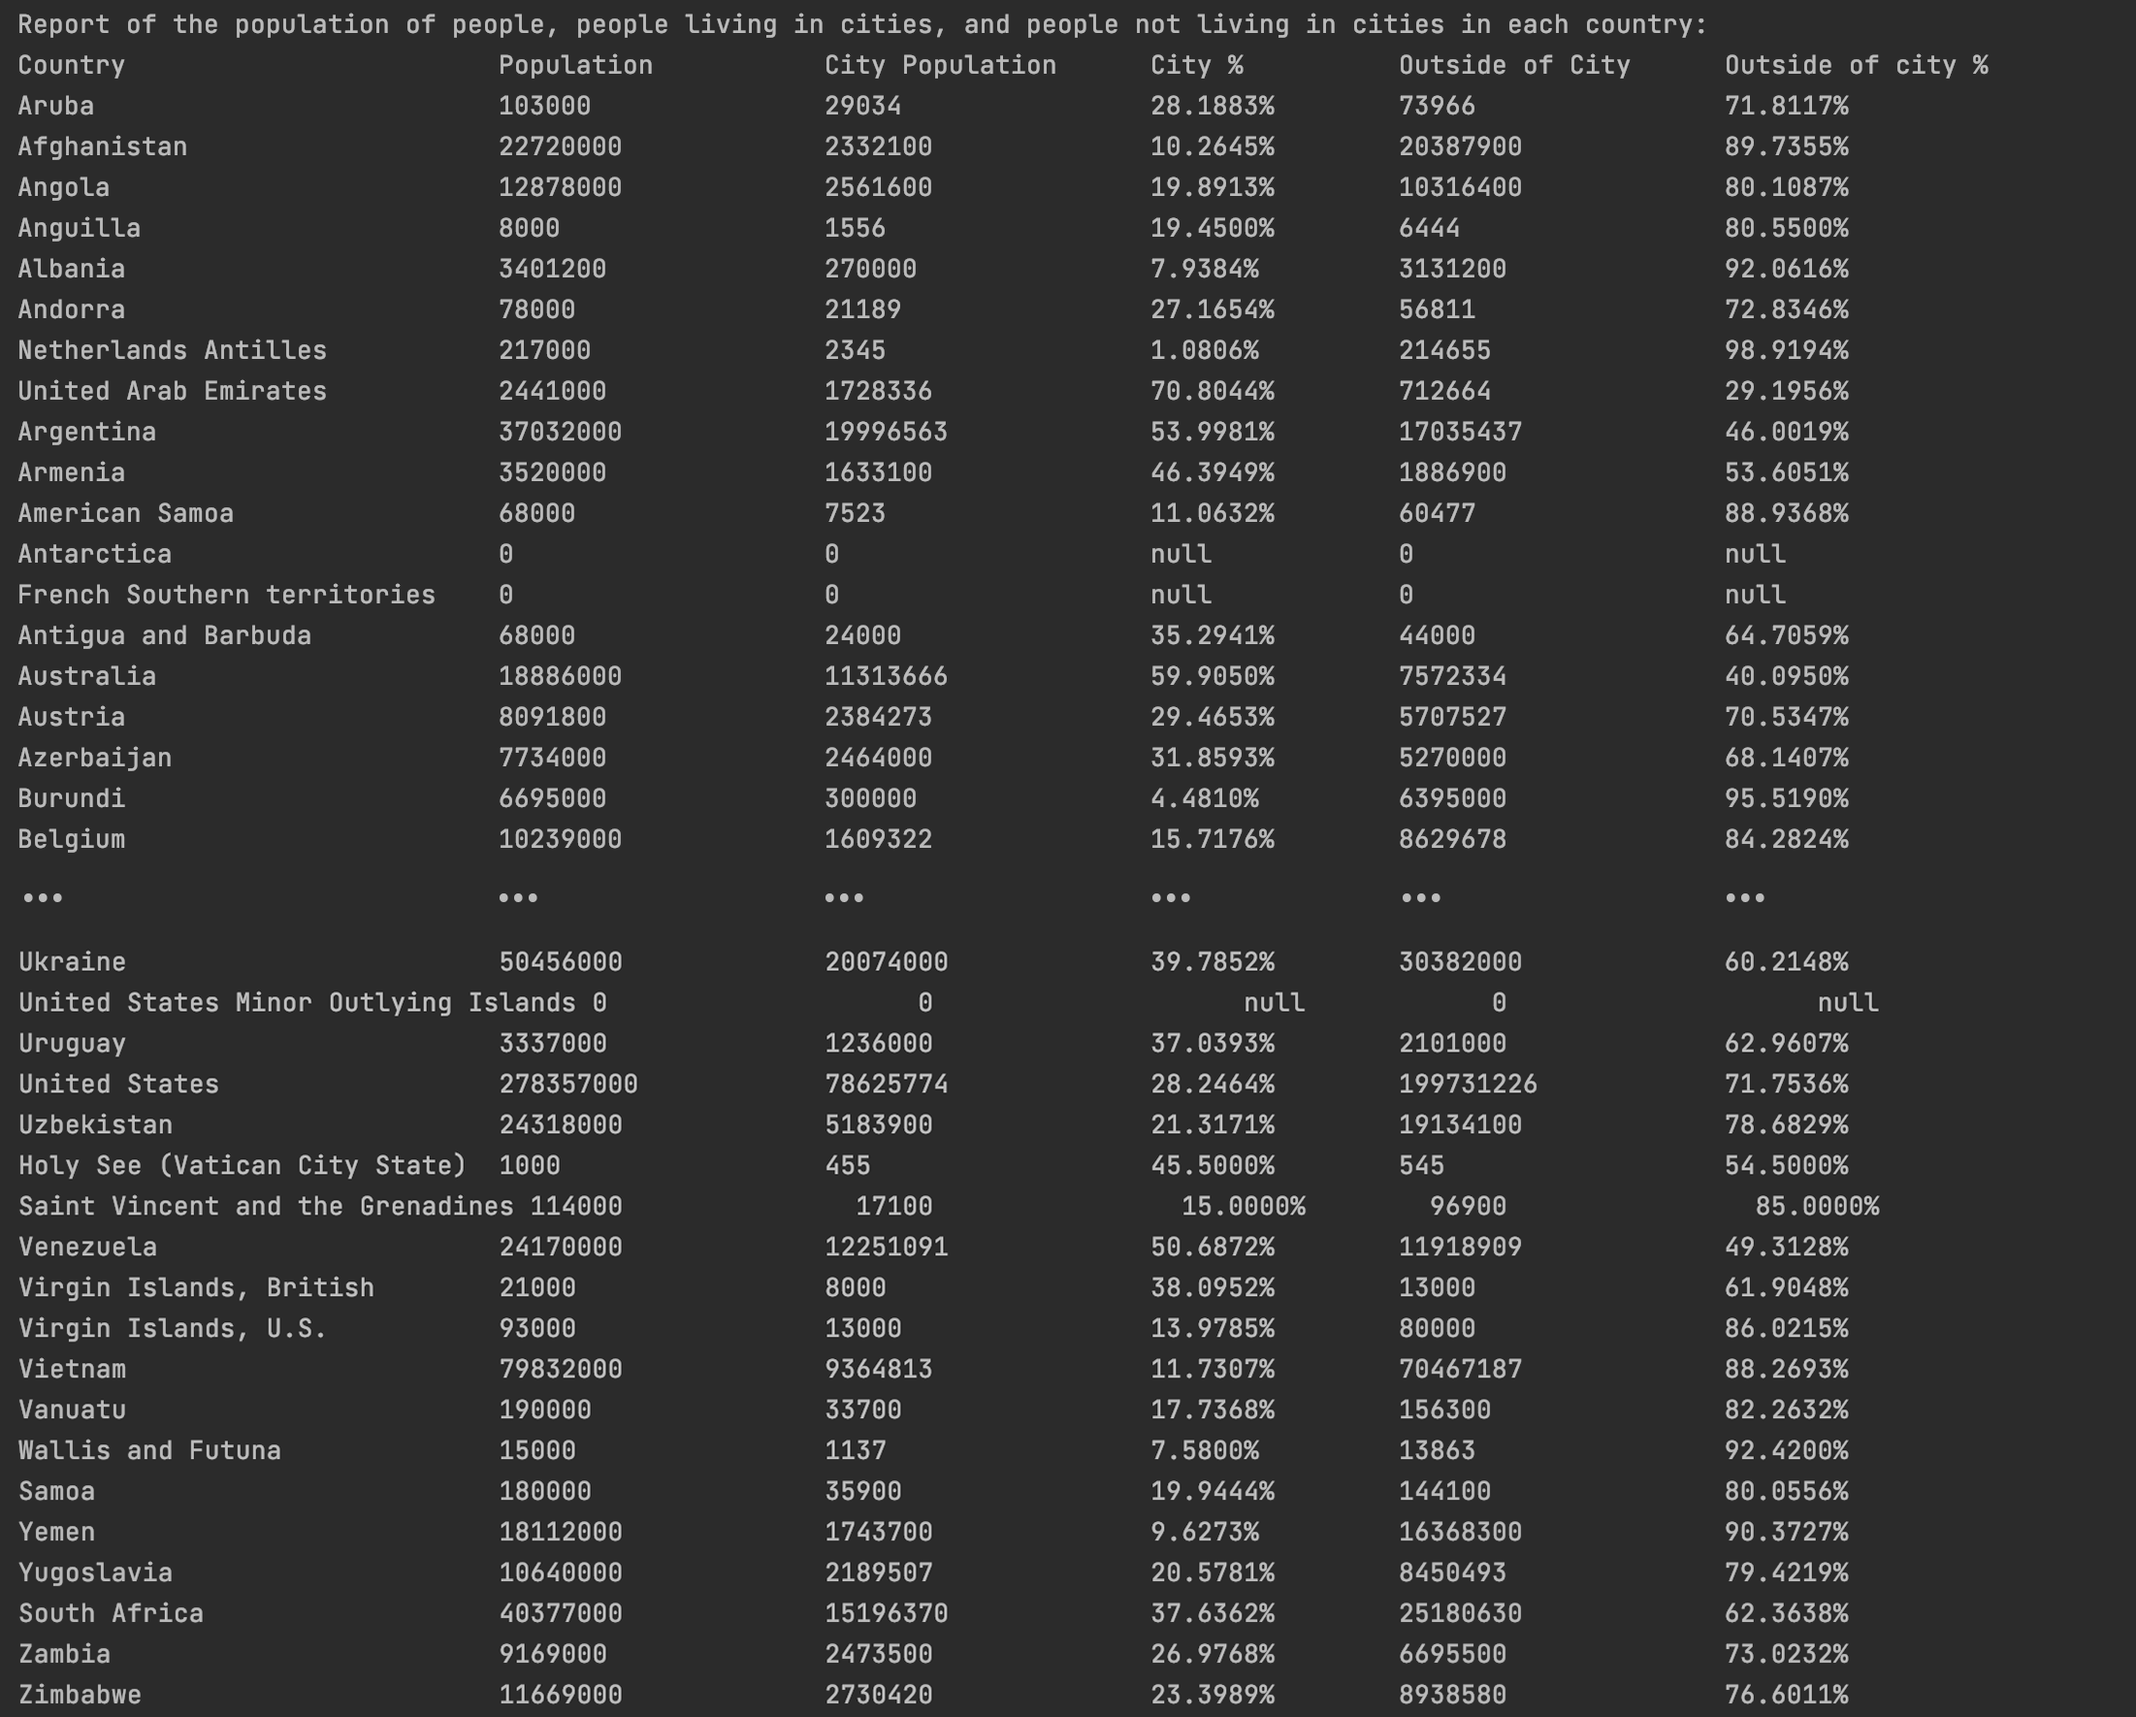
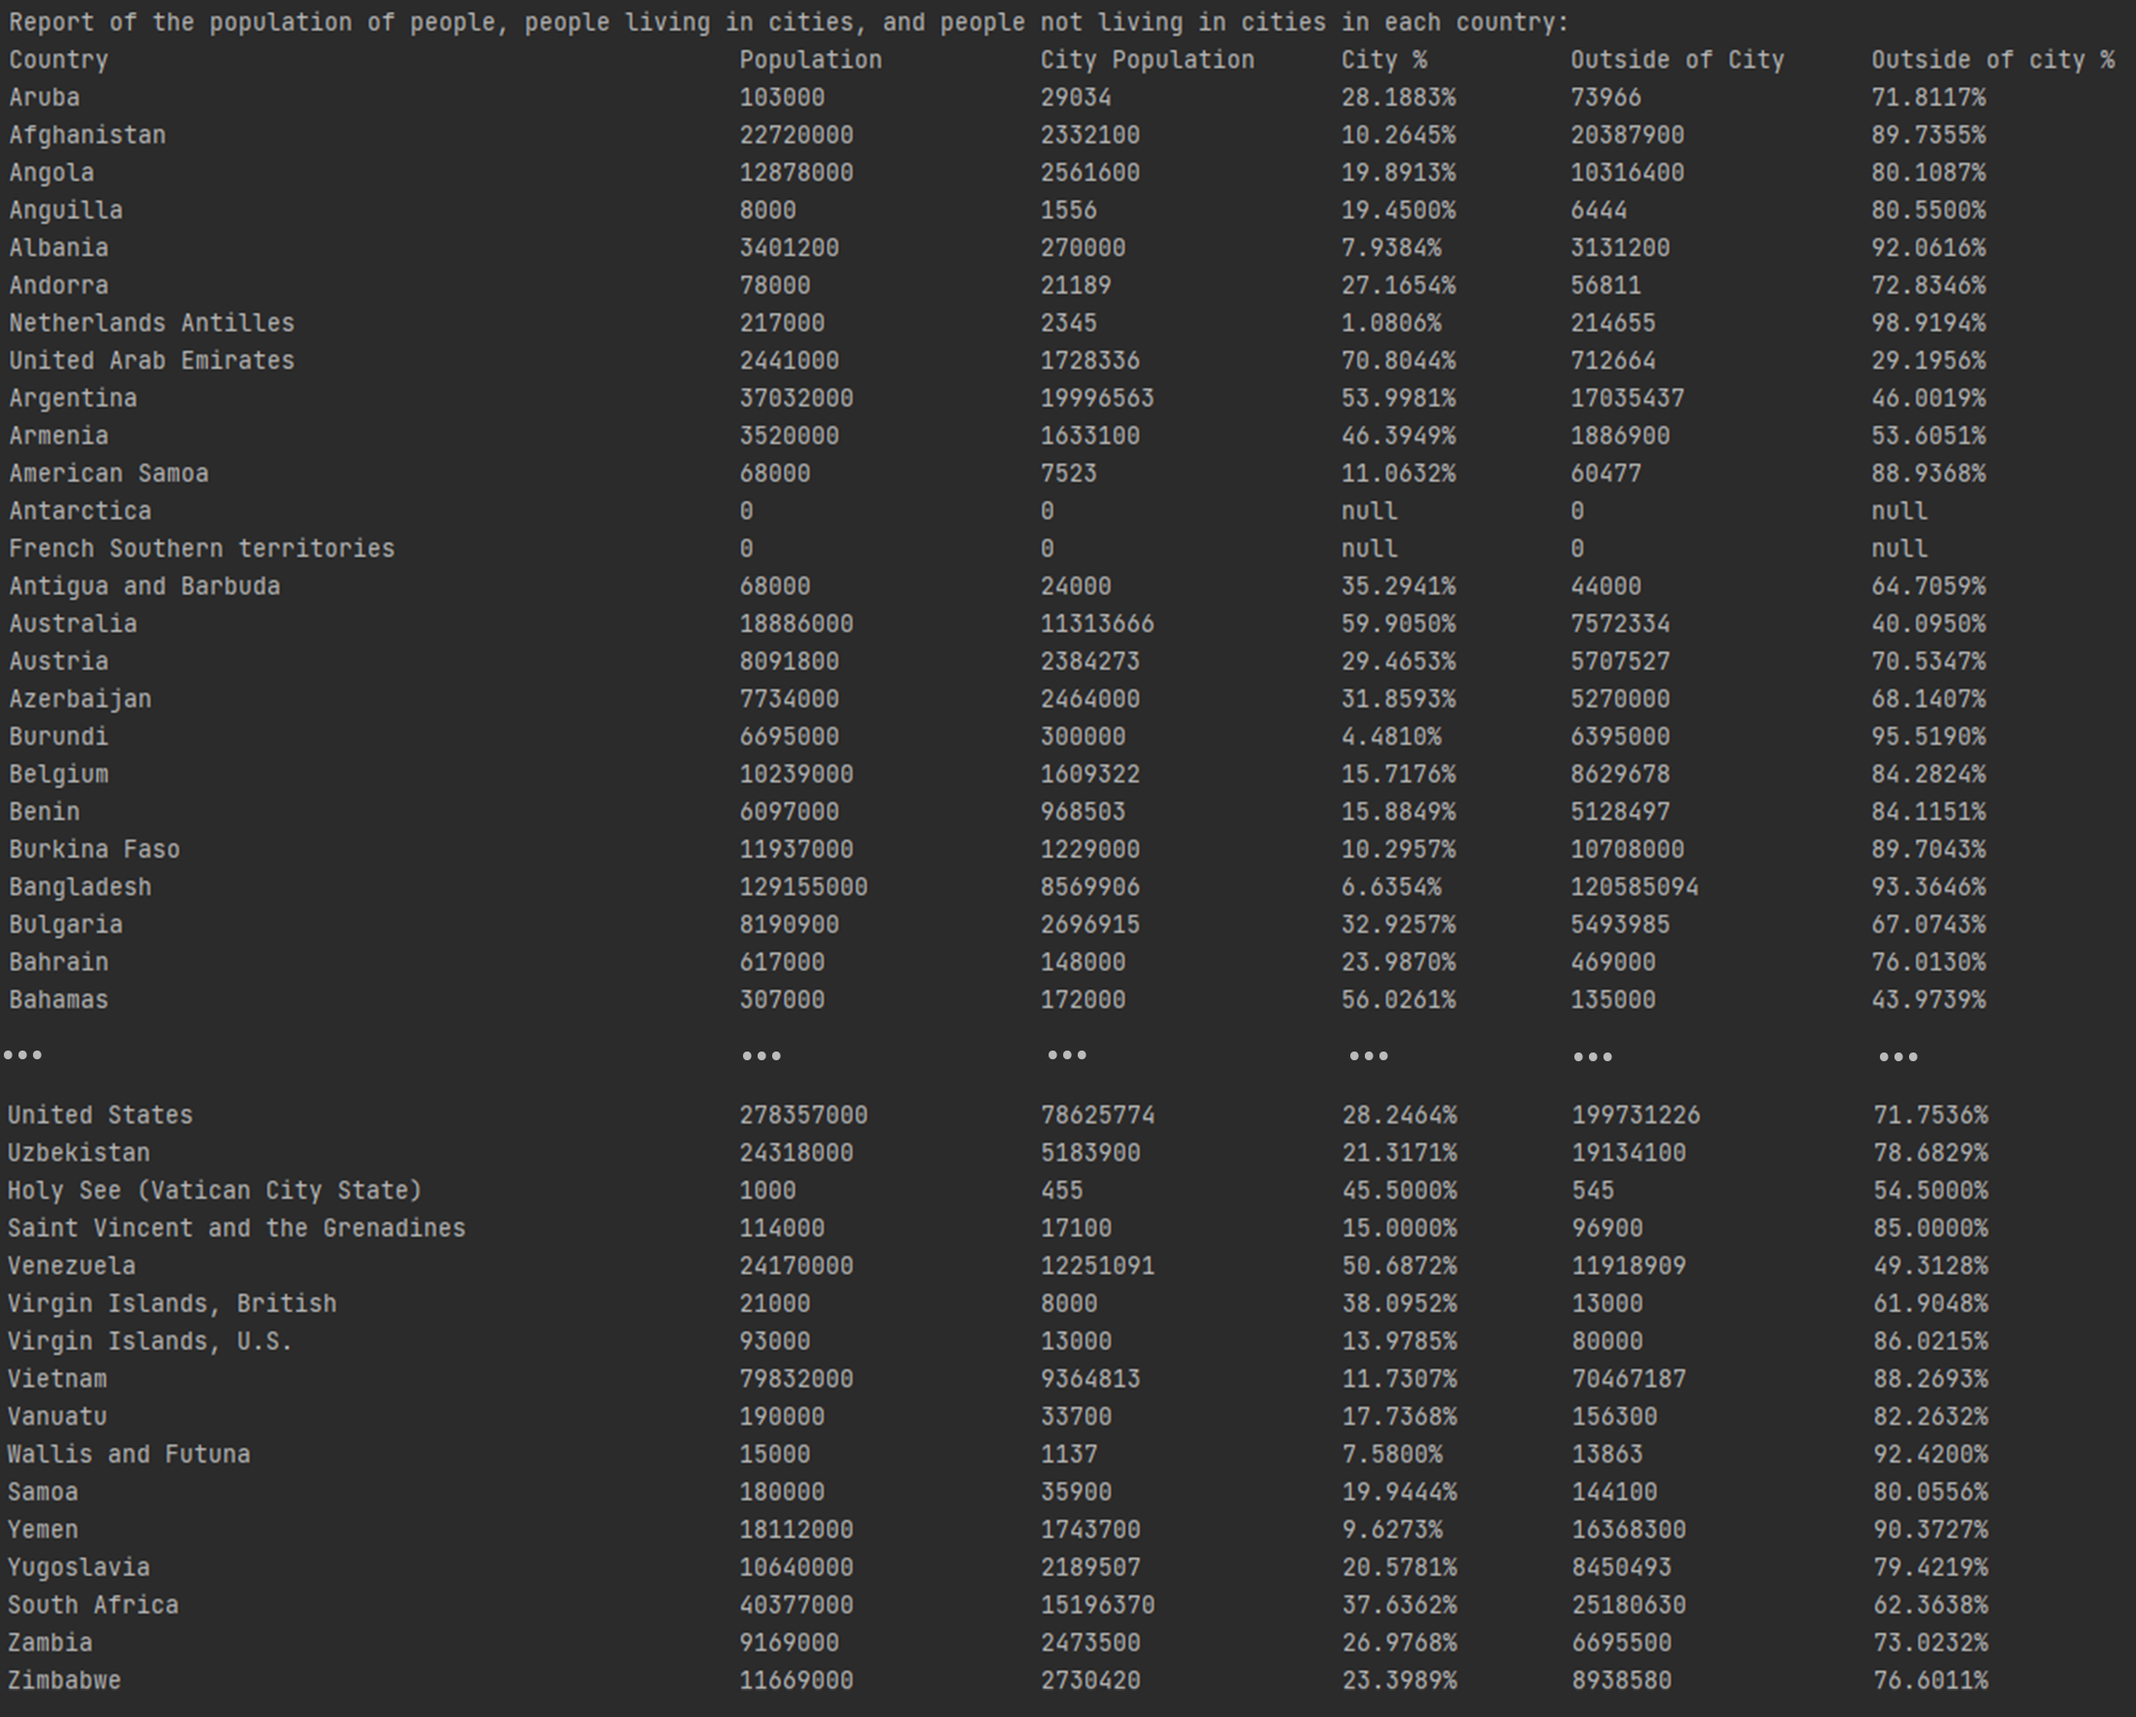
modified population reports output and screenshots

diff --git a/src/main/java/com/napier/sem/Reports.java b/src/main/java/com/napier/sem/Reports.java
@@ -341,8 +341,6 @@ public class Reports {
                         continent, population, cityPopulation, cityPercentage, outsidePopulation, outsidePercentage);
                 System.out.println(row);
             }
-            System.out.println(String.format("%-20s %-20s %-20s %-15s %-20s %-20s",
-                    "Antarctica", "0", "0", "N/A", "0", "N/A"));
 
         } catch (Exception e) {
             System.out.println(e.getMessage());
@@ -372,7 +370,7 @@ public class Reports {
             ResultSet result = statement.executeQuery(query);
 
             // print a header:
-            String header = String.format("%-30s %-20s %-20s %-15s %-20s %-20s",
+            String header = String.format("%-50s %-20s %-20s %-15s %-20s %-20s",
                     "Country", "Population", "City Population", "City %", "Outside of City", "Outside of city %");
             System.out.println("Report of the population of people, people living in cities, and people not living in cities in each country:");
             System.out.println(header);
@@ -385,7 +383,7 @@ public class Reports {
                 String outsidePopulation = String.valueOf(result.getLong("Outside of City Population"));
                 String outsidePercentage = result.getString("Outside of city %");
 
-                String row = String.format("%-30s %-20s %-20s %-15s %-20s %-20s",
+                String row = String.format("%-50s %-20s %-20s %-15s %-20s %-20s",
                         country, population, cityPopulation, cityPercentage, outsidePopulation, outsidePercentage);
                 System.out.println(row);
             }
@@ -524,7 +522,7 @@ public class Reports {
         {
             double percentage = (languagesPopulations.get(i) * 100) / worldPopulation;
             String formattedLanguageReportString = String.format("%-20s %-25s %-20s",
-                    languages[i], Math.round(languagesPopulations.get(i)), percentage);
+                    languages[i], Math.round(languagesPopulations.get(i)), Math.round(percentage*100.0)/100.0 + "%");
             report=report.concat(formattedLanguageReportString);
             report=report.concat("\n");
         }
